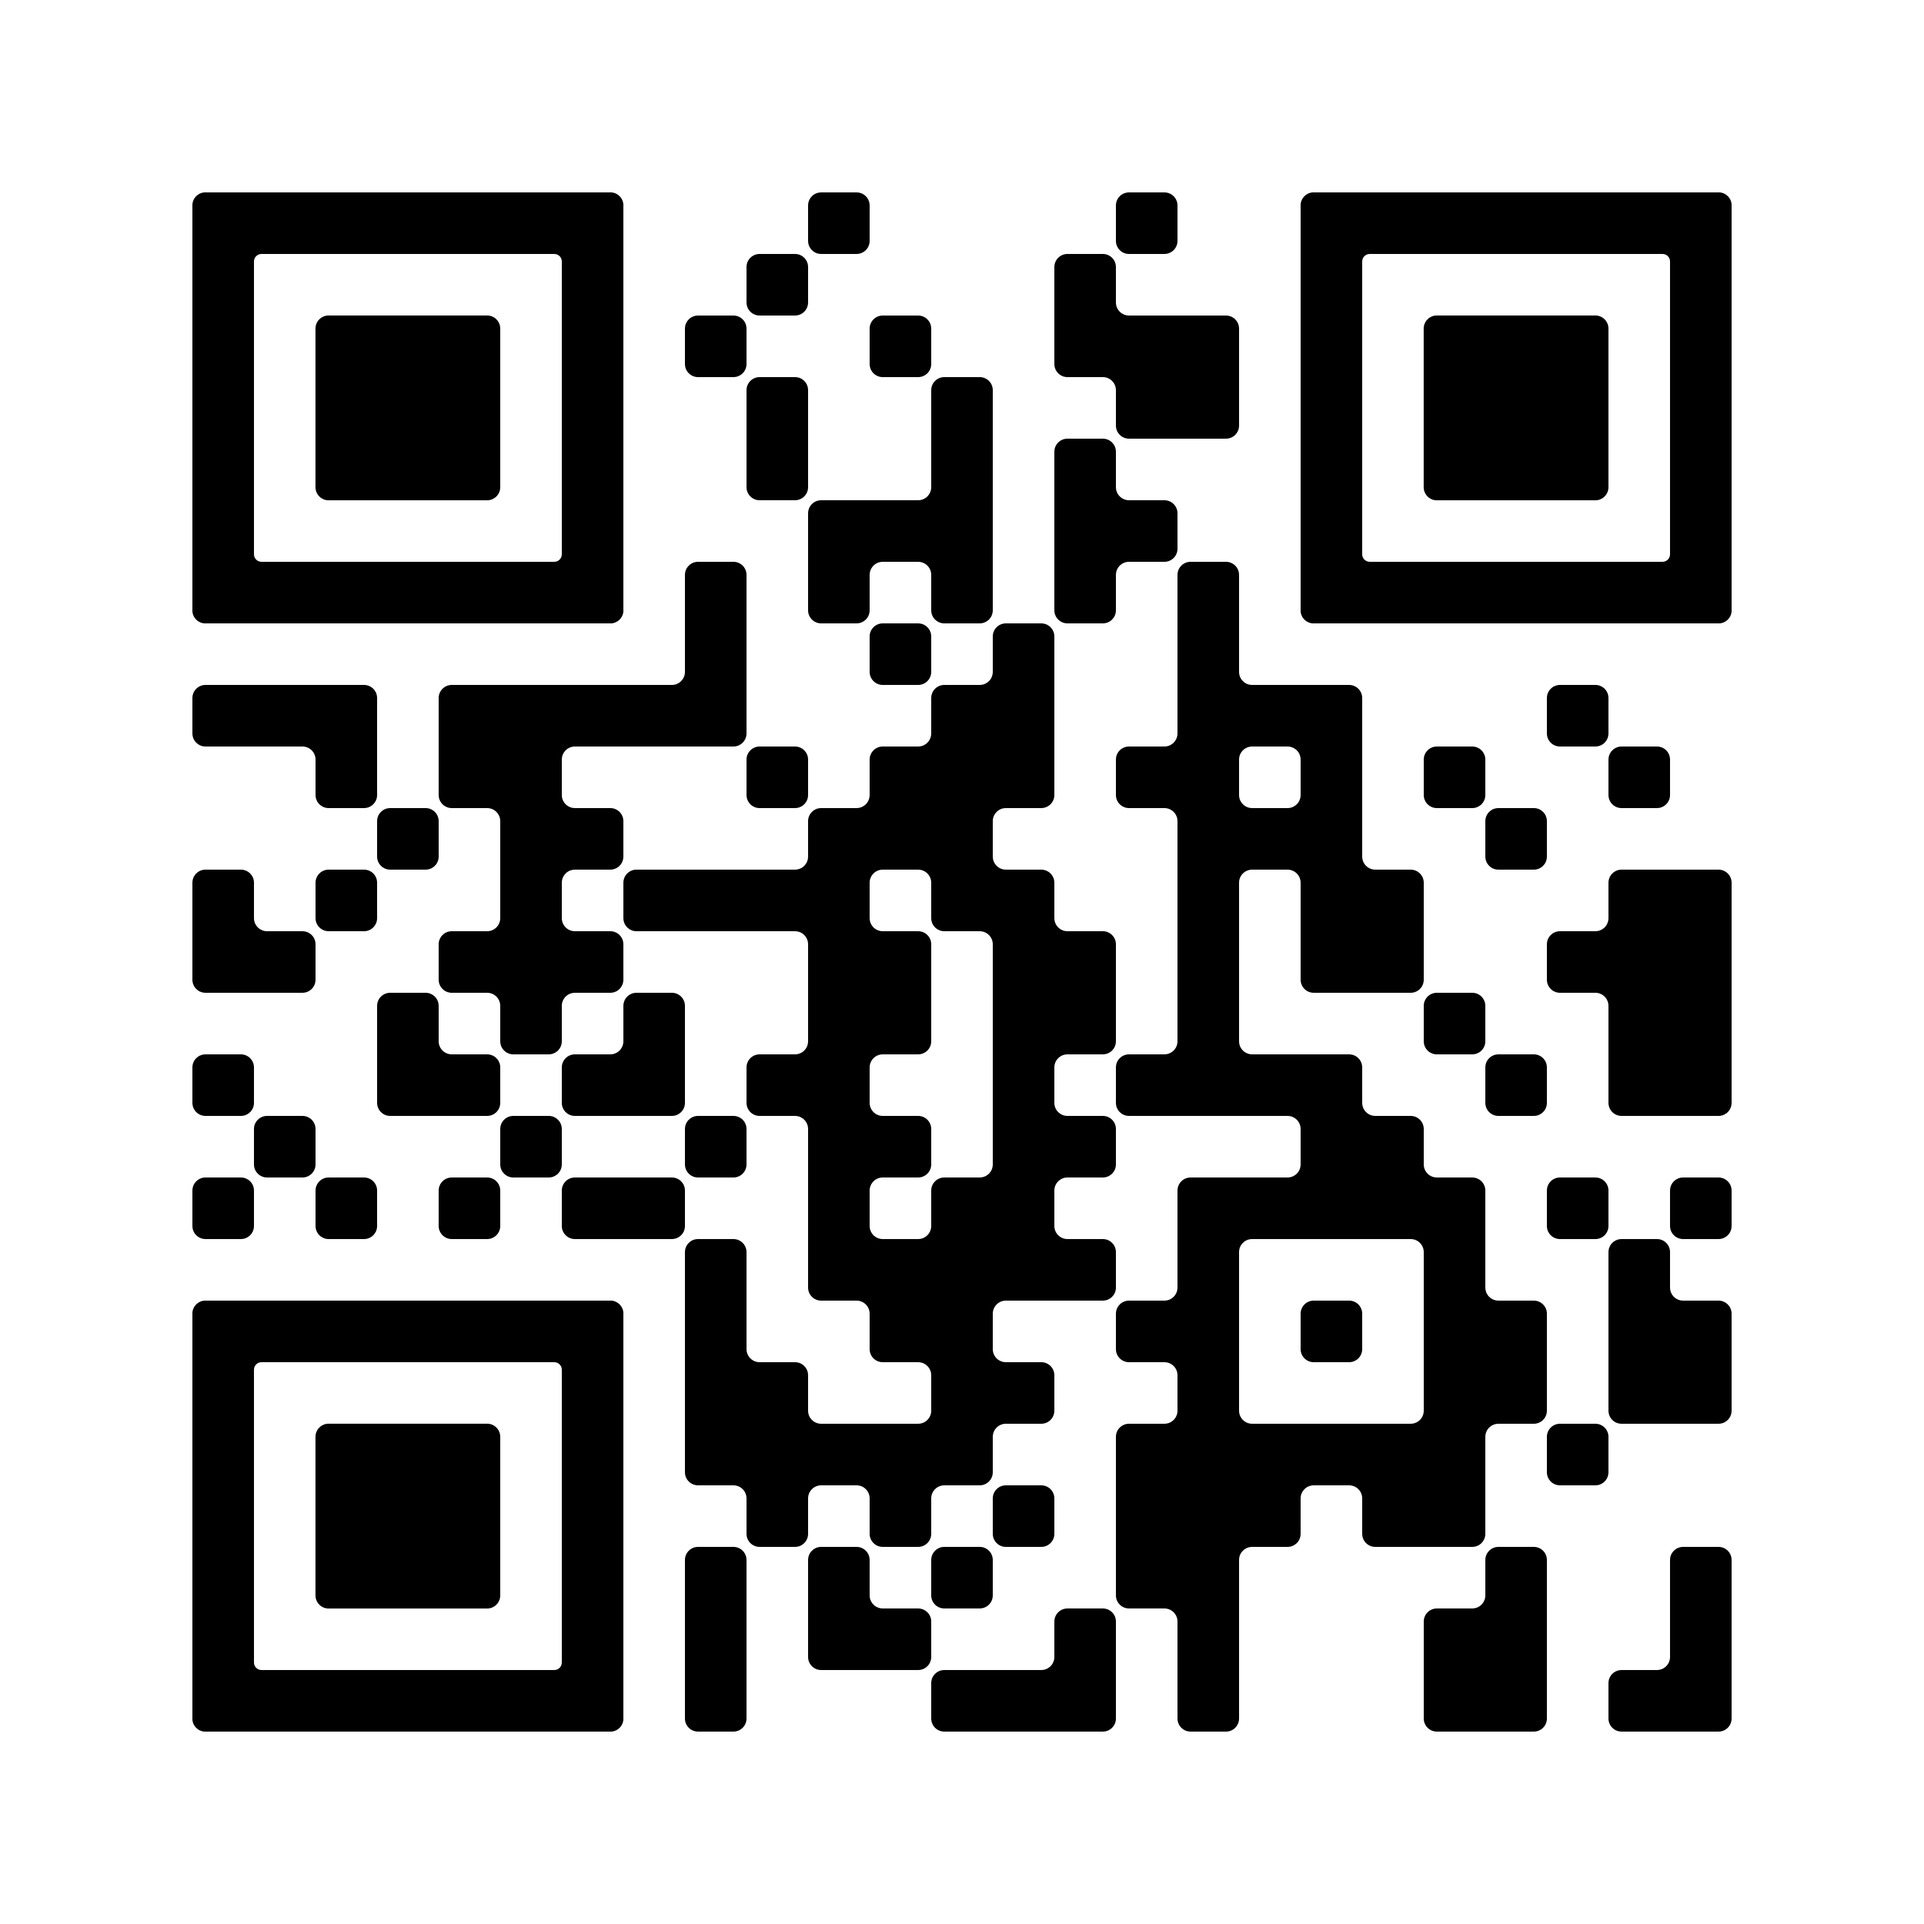
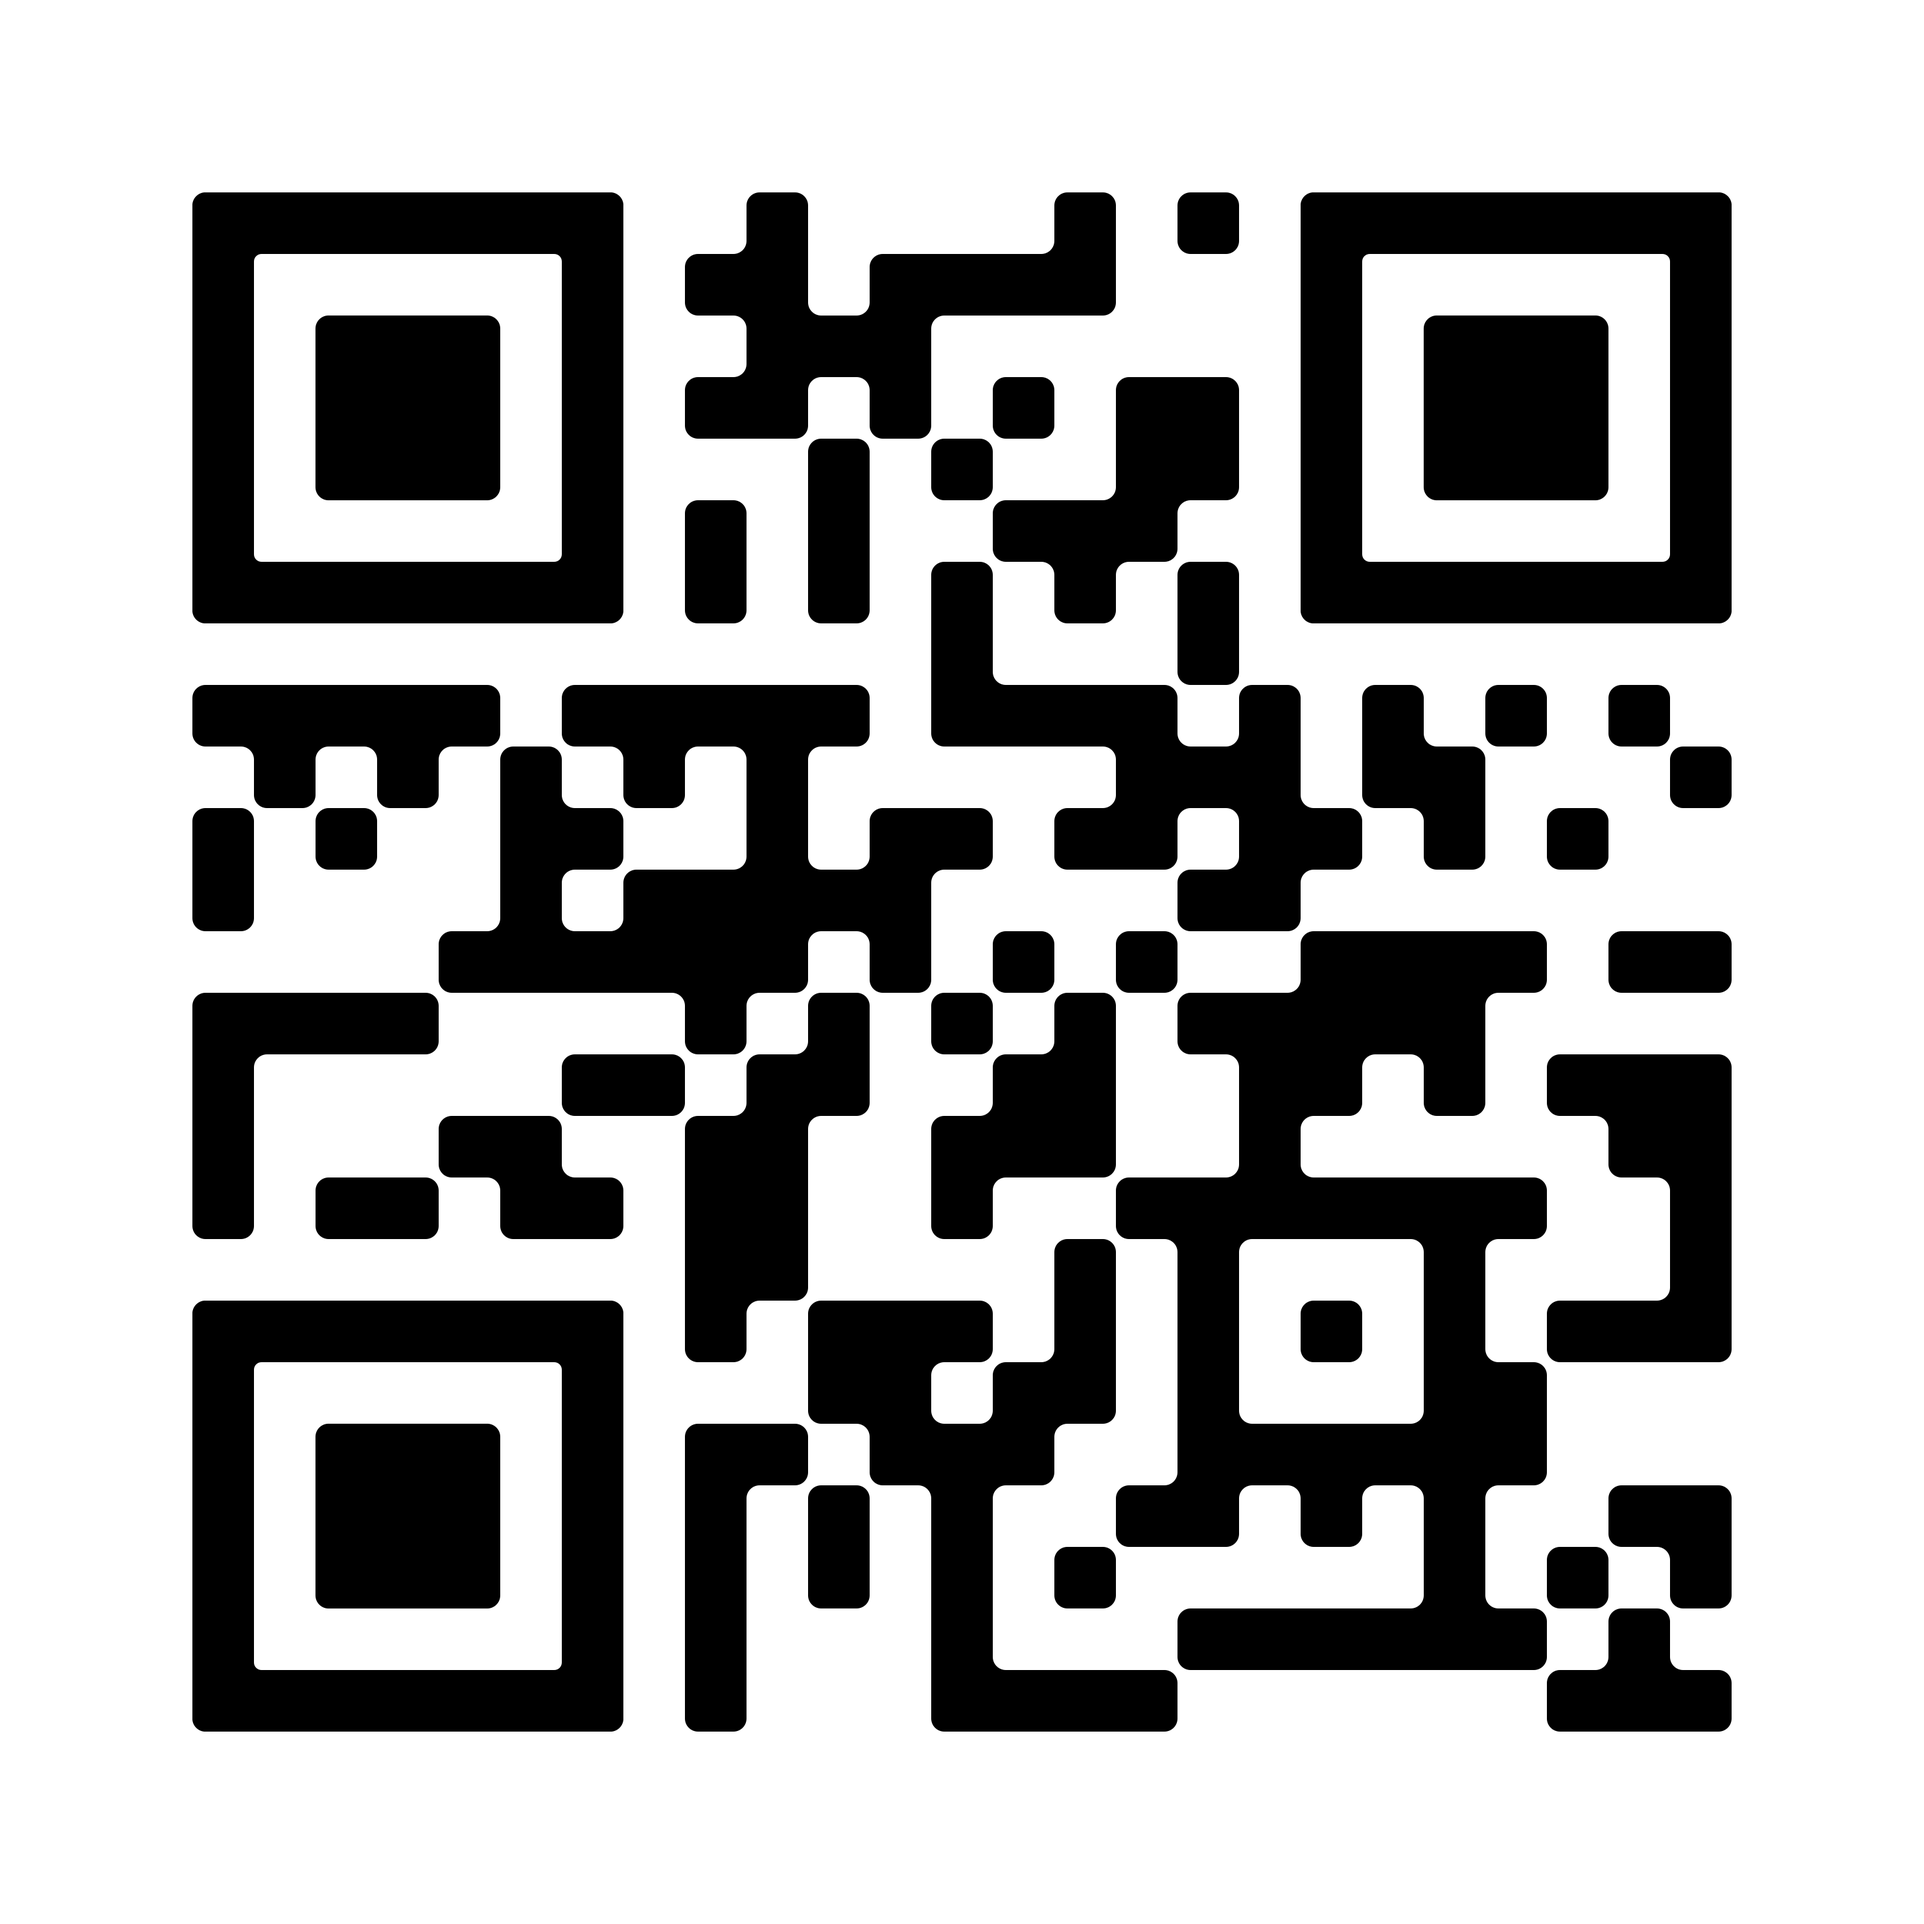
fix

Changed region(s): [[0.093, 0.093, 0.899, 0.899], [0.837, 0.837, 0.899, 0.868], [0.837, 0.775, 0.899, 0.806]]

diff --git a/index.html b/index.html
@@ -15,7 +15,7 @@
                 <h1><center>AgendAí</center></h1>
                 <p>Baixe o nosso aplicativo para organizar seus agendamentos de forma fácil e rápida.</p>
                 <div class="buttons">
-                    <a href="https://expo.dev/artifacts/eas/wfAWwLpFPYnwb8LUJjGrjg.apk" class="download-button">
+                    <a href="https://expo.dev/artifacts/eas/tsCae58cVkqqX4aB4md2V7.apk" class="download-button">
                         <i class="fas fa-download"></i> Download
                     </a>
                 </div>
